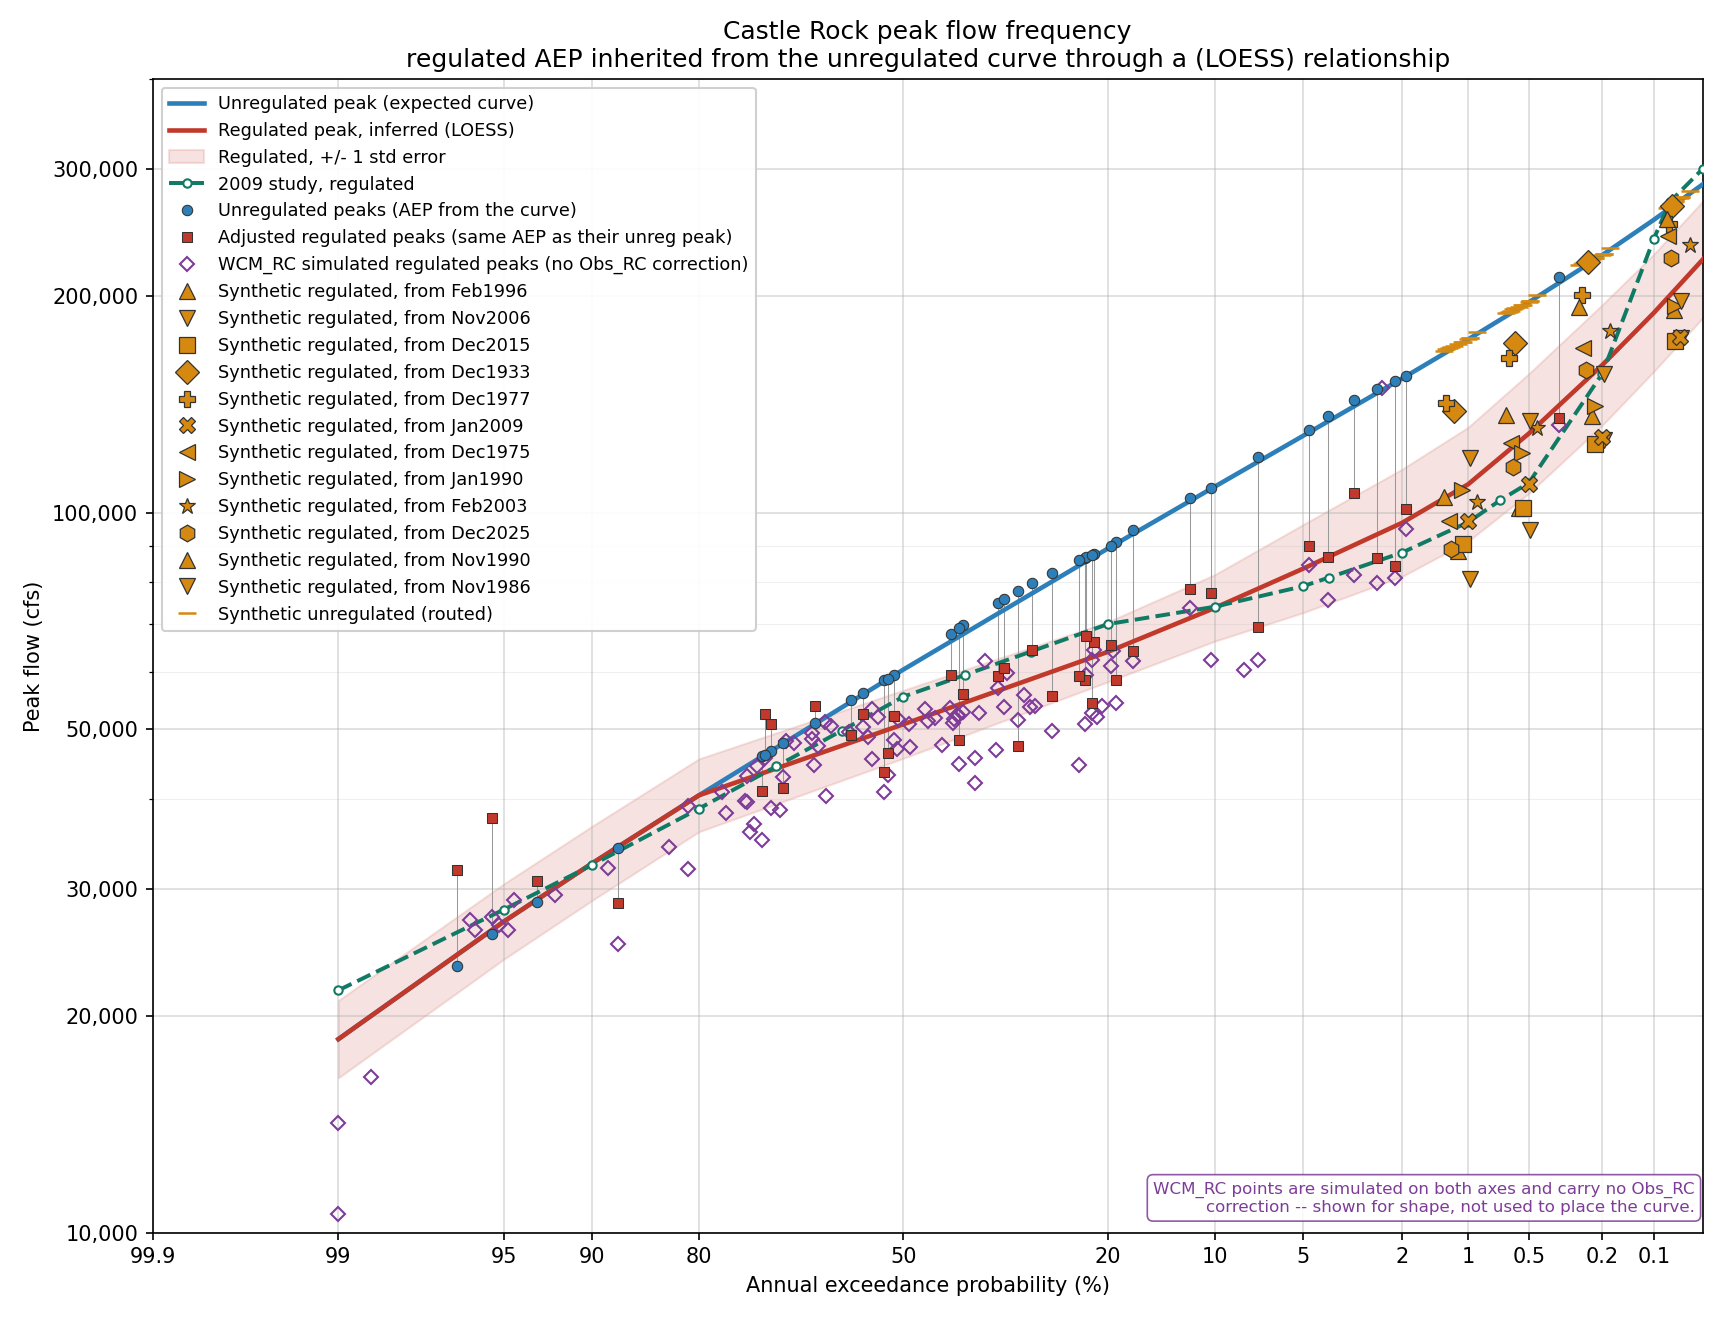
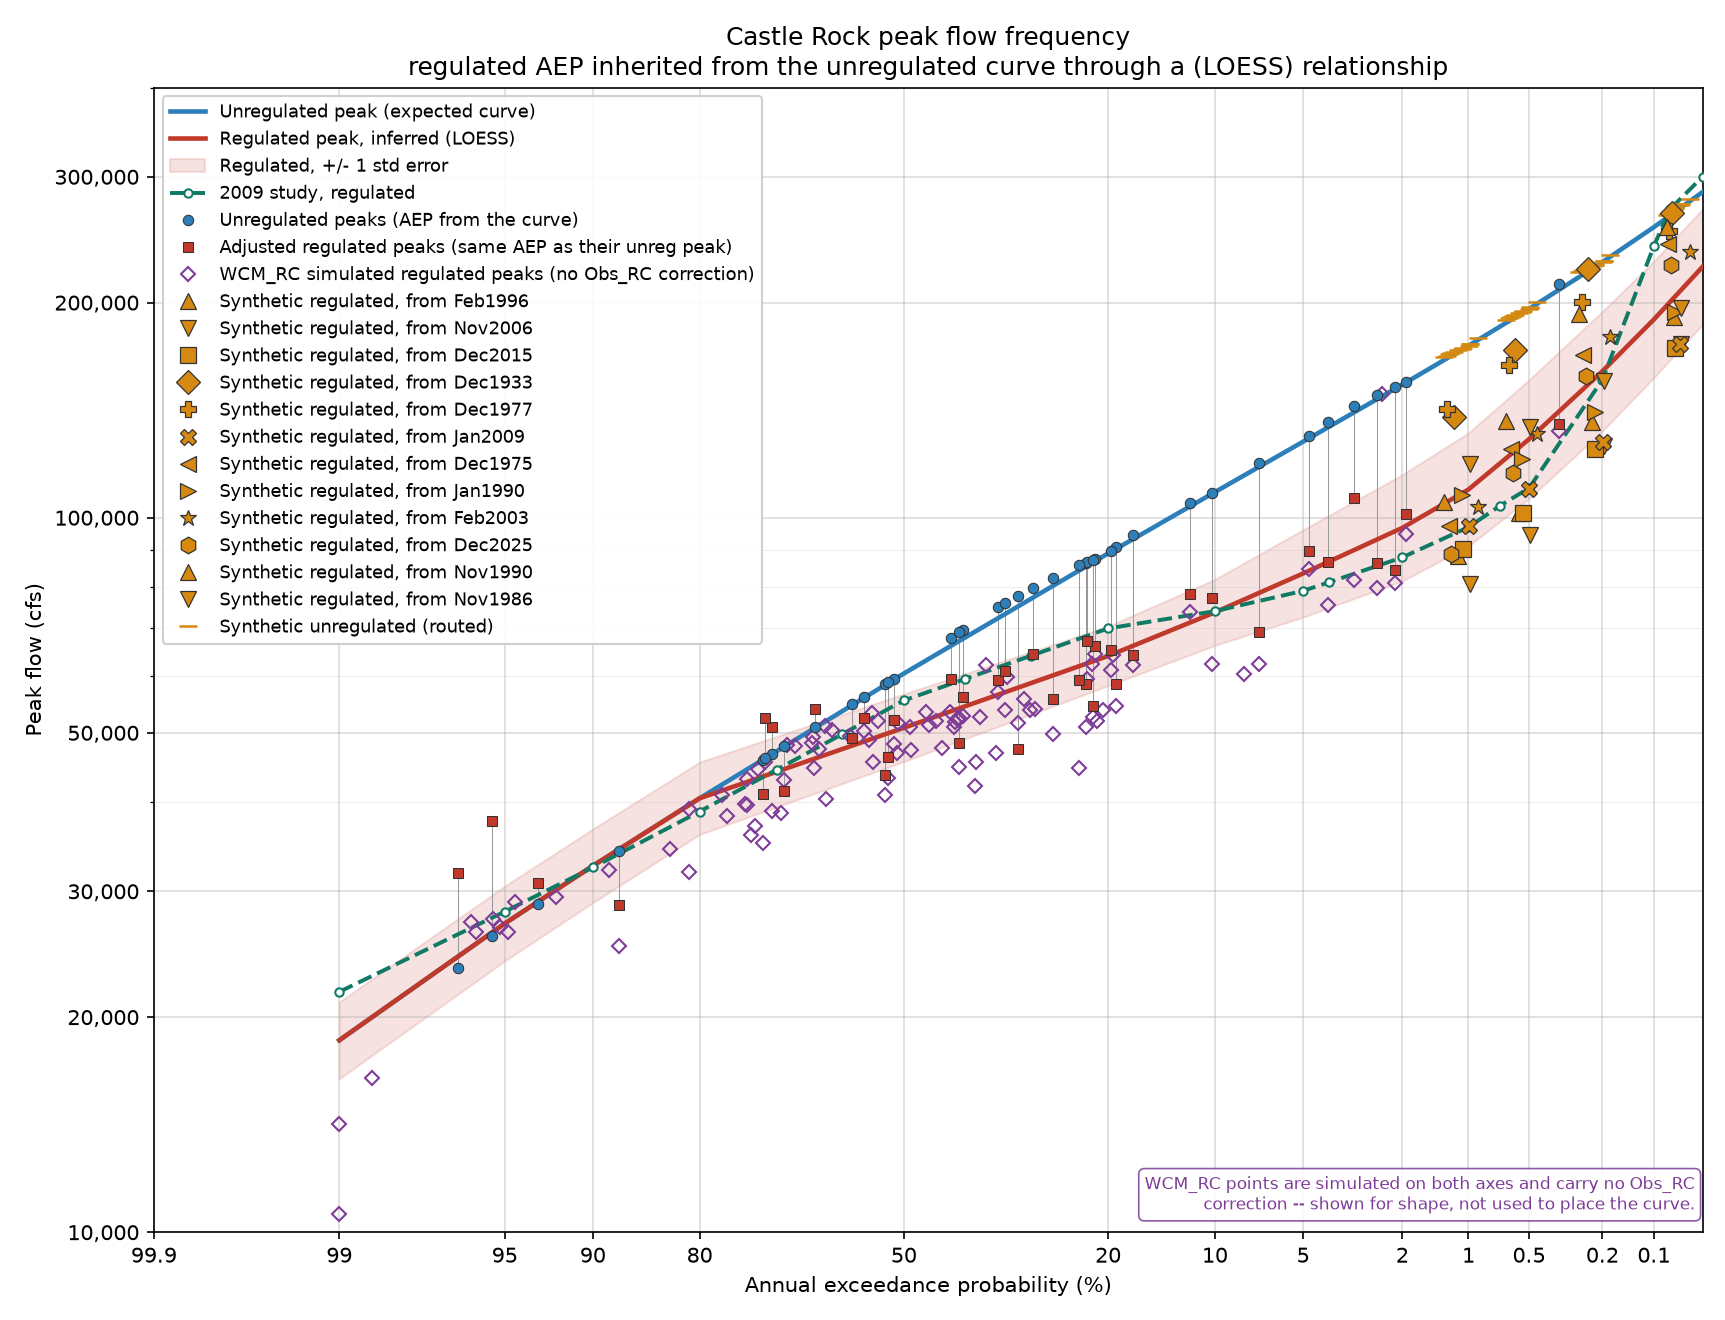
Unreg_Reg_Curve: clean up the adopted uncertainty figure for the memo
Four changes to plot_final_uncertainty, all of them settings so they can be
put back:

- FINAL_TITLE, one line. The 90% explanation that ran underneath it belongs in
  the memo text beside the figure, not in the title.
- FINAL_SHOW_SUPPORT_MARKER = False. Drops the dotted line and the "transform
  supported to here (unreg 279,538 cfs)" label. The caveat still matters, but
  it is stated properly in Section 12 rather than in eight-point grey. The
  diagnostic plot (plot_frequency) still carries it.
- FINAL_SHOW_FORMULA_NOTE = False. Drops the box in the lower right restating
  the band formula. Switch it on if the figure ever has to travel on its own.
- FINAL_AEP_LIMITS = (0.99, 0.0005). The frequency axis now starts at 99
  instead of 99.9, closing the empty strip on the left where no curve is
  plotted. Deliberately a separate setting from the global AEP_LIMITS so the
  diagnostic plots are not moved with it, and the tick list is trimmed to the
  new limits -- probability_axis pairs labels to ticks positionally, so a tick
  left outside the axis would shift every label along by one.

Only the adopted figure changes; the other plots and the CSV are byte-identical.

diff --git a/CAS_Reg_Unreg/src/#Unreg_Reg_Curve.py b/CAS_Reg_Unreg/src/#Unreg_Reg_Curve.py
@@ -353,6 +353,21 @@ MAKE_FINAL_UNCERTAINTY_PLOT = True
 FINAL_SHOW_2009 = False
 # Draw the unregulated confidence band as well, for context.
 FINAL_SHOW_UNREG_BAND = True
+# Title. One line, no explanation underneath -- this figure goes in a memo
+# where the method is in the text beside it.
+FINAL_TITLE = "Castle Rock peak flow frequency, regulated and unregulated"
+# The dotted line and label marking where the transform stops being supported
+# by data. Off for the report figure; the caveat belongs in the memo text,
+# where it can be stated properly rather than in eight-point grey. The other
+# plots still carry it -- see plot_frequency.
+FINAL_SHOW_SUPPORT_MARKER = False
+# The box in the lower right restating the band formula. Off for the same
+# reason. Switch it on when the figure has to travel on its own.
+FINAL_SHOW_FORMULA_NOTE = False
+# Frequency axis for THIS figure only. The global AEP_LIMITS starts at 0.999,
+# which leaves a wide empty strip on the left because no curve is plotted
+# beyond 0.99. Kept separate so the diagnostic plots are not moved with it.
+FINAL_AEP_LIMITS = (0.99, 0.0005)
 
 # ----------------------------------------------------------------------------
 
@@ -1090,39 +1105,42 @@ def plot_final_uncertainty(freq, fit, unc, reg_curve, table_2009, stem):
                 table_2009["cfs"].values, color=C_2009, lw=1.7, ls="--",
                 zorder=4, label=CURVE_2009_LABEL)
 
-    supported = unreg_curve <= fit["x_max"]
-    if supported.any() and not supported.all():
-        z_edge = z[supported].max()
-        ax.axvline(z_edge, color="0.35", lw=1.0, ls=":", zorder=3)
-        ax.text(z_edge, FLOW_LIMITS[1] * 0.94,
-                "  transform supported to here\n  (unreg %s cfs)"
-                % format(int(fit["x_max"]), ","),
-                fontsize=8, color="0.3", va="top")
+    if FINAL_SHOW_SUPPORT_MARKER:
+        supported = unreg_curve <= fit["x_max"]
+        if supported.any() and not supported.all():
+            z_edge = z[supported].max()
+            ax.axvline(z_edge, color="0.35", lw=1.0, ls=":", zorder=3)
+            ax.text(z_edge, FLOW_LIMITS[1] * 0.94,
+                    "  transform supported to here\n  (unreg %s cfs)"
+                    % format(int(fit["x_max"]), ","),
+                    fontsize=8, color="0.3", va="top")
 
     ax.set_yscale("log")
     ax.set_ylim(FLOW_LIMITS)
-    probability_axis(ax, AEP_TICKS, AEP_LIMITS)
+    # Ticks trimmed to the axis, so a label is never assigned to a tick that
+    # is off the plot -- probability_axis pairs labels to ticks positionally.
+    ticks = [t for t in AEP_TICKS
+             if FINAL_AEP_LIMITS[1] <= t <= FINAL_AEP_LIMITS[0]]
+    probability_axis(ax, ticks, FINAL_AEP_LIMITS)
     ax.yaxis.set_major_locator(LogLocator(base=10, subs=(1.0, 2.0, 3.0, 5.0)))
     ax.yaxis.set_major_formatter(FuncFormatter(lambda v, p: format(int(v), ",")))
     ax.grid(which="major", alpha=0.45, lw=0.8)
     ax.grid(which="minor", alpha=0.2, lw=0.5)
     ax.set_ylabel("Peak flow (cfs)")
-    ax.set_title("Castle Rock peak flow frequency, regulated and unregulated\n"
-                 "%d%% uncertainty: flow-frequency carried through the "
-                 "unreg-reg transform, combined with the transform scatter"
-                 % pct, fontsize=12)
+    ax.set_title(FINAL_TITLE, fontsize=12)
     ax.legend(loc="upper left", fontsize=9.5, framealpha=0.92)
-    ax.text(0.995, 0.015,
-            "Regulated band = sqrt( (b x freq sigma)$^2$ + transform sigma$^2$ ), "
-            "b = dlog(reg)/dlog(unreg)\ntransform sigma %.3f to %.3f dex "
-            "(%s, %s)"
-            % (np.nanmin(unc["sigma_transform"]),
-               np.nanmax(unc["sigma_transform"]),
-               TRANSFORM_SIGMA_MODE, TRANSFORM_UNCERTAINTY_BASIS),
-            transform=ax.transAxes, ha="right", va="bottom", fontsize=8,
-            color="0.25",
-            bbox=dict(boxstyle="round,pad=0.35", fc="white", ec="0.6",
-                      alpha=0.9, lw=0.8))
+    if FINAL_SHOW_FORMULA_NOTE:
+        ax.text(0.995, 0.015,
+                "Regulated band = sqrt( (b x freq sigma)$^2$ + transform "
+                "sigma$^2$ ), b = dlog(reg)/dlog(unreg)\ntransform sigma "
+                "%.3f to %.3f dex (%s, %s)"
+                % (np.nanmin(unc["sigma_transform"]),
+                   np.nanmax(unc["sigma_transform"]),
+                   TRANSFORM_SIGMA_MODE, TRANSFORM_UNCERTAINTY_BASIS),
+                transform=ax.transAxes, ha="right", va="bottom", fontsize=8,
+                color="0.25",
+                bbox=dict(boxstyle="round,pad=0.35", fc="white", ec="0.6",
+                          alpha=0.9, lw=0.8))
     fig.tight_layout()
     fig.savefig("%s_final_uncertainty.png" % stem, dpi=150)
     plt.close(fig)
